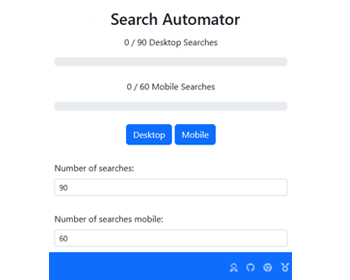
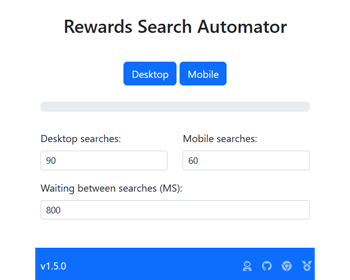
Updated images for store

diff --git a/js/config.js b/js/config.js
@@ -2,8 +2,8 @@ let config = {
     general: {
         appVersion: "v1.5.0",
         authorWebsiteLink: "https://andreacorriga.com",
-        repositoryGithubLink: "https://github.com/AsoStrife/Bing-Search-Automator", 
-        storeLink: "https://chrome.google.com/webstore/detail/bing-search-automator/ohjecpfbaodieoicfnpnigjbinkjgnkb",
+        repositoryGithubLink: "https://github.com/AsoStrife/Rewards-Search-Automator", 
+        storeLink: "https://chromewebstore.google.com/u/3/detail/paohfpjfibchbhbkdnlhjpfblafifehg/preview?hl=it",
         rewardsLink: "https://rewards.microsoft.com/",
     },
     bing: {
